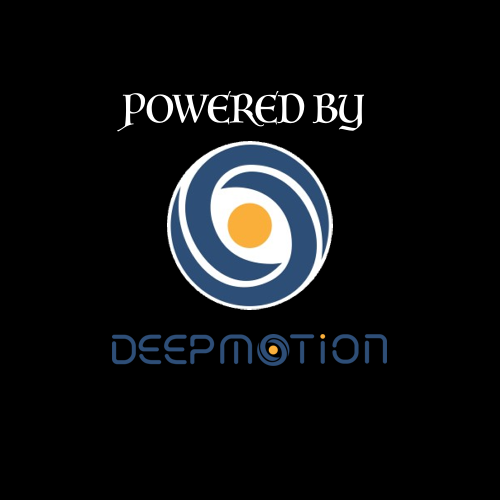
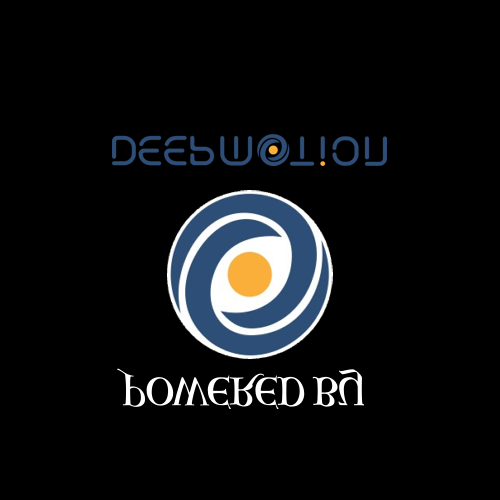
Fix texture flipping

Changed region(s): [[0.21, 0.18, 0.78, 0.81]]

diff --git a/src/power/filesystem/CompressedSerialization.hpp b/src/power/filesystem/CompressedSerialization.hpp
@@ -638,6 +638,7 @@ public:
 			}
 			
 			// Combine all decompressed chunks into a single buffer
+			decompressedData.clear();
 			decompressedData.reserve(std::accumulate(uncompressedSizes.begin(), uncompressedSizes.end(), static_cast<uLong>(0)));
 			for (unsigned int i = 0; i < numThreads; ++i) {
 				decompressedData.insert(decompressedData.end(),

diff --git a/src/power/main.cpp b/src/power/main.cpp
@@ -7,12 +7,7 @@
 #include "Application.hpp"
 
 int main(int /* argc */, char ** /* argv */) {
-#if defined(NANOGUI_USE_METAL)
-	stbi_set_flip_vertically_on_load(0);
-#else
 	stbi_set_flip_vertically_on_load(1);
-#endif
-
 	
 	std::cout << std::filesystem::current_path().string() << std::endl;
 	nanogui::init();
